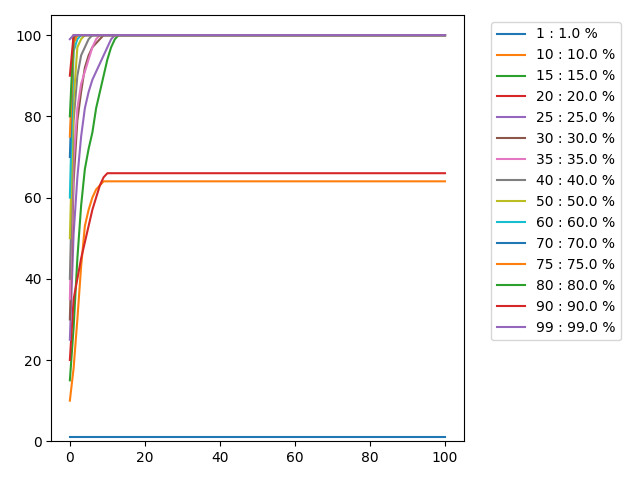
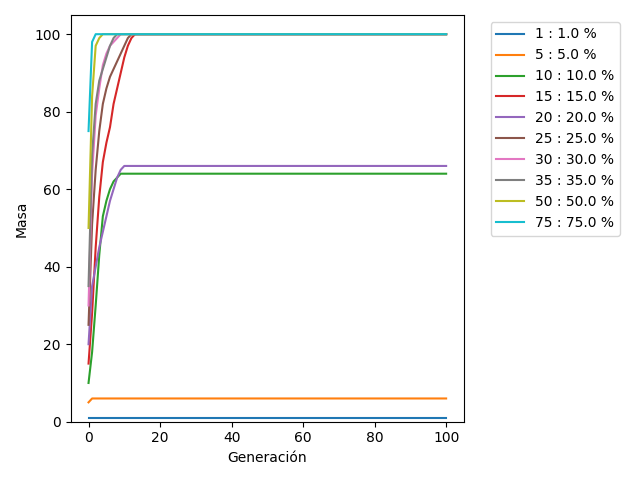
different percentage distributions, generation stabilization graph

diff --git a/TP_2/docs/Sections/Resultados.tex b/TP_2/docs/Sections/Resultados.tex
@@ -16,12 +16,21 @@
     \end{figure}
 }
 
-\newcommand{\obsgraph}[1]{
+\newcommand{\obsfinalgraph}[1]{
     \begin{figure}[H]
         \centering
-        \includegraphics[width=0.65\textwidth]{Images/#1/#1_obs}
-        \caption{Gráfico de los observables en función de los porcentajes}
-        \label{fig:#1obs}
+        \includegraphics[width=0.65\textwidth]{Images/#1/#1_obs_final}
+        \caption{Gráfico de la masa final en función de los porcentajes}
+        \label{fig:#1obsfinal}
+    \end{figure}
+}
+
+\newcommand{\obsstablegraph}[1]{
+    \begin{figure}[H]
+        \centering
+        \includegraphics[width=0.65\textwidth]{Images/#1/#1_obs_stable}
+        \caption{Gráfico de la generación de estabilización en función de los porcentajes}
+        \label{fig:#1obsstable}
     \end{figure}
 }
 
@@ -32,27 +41,35 @@
 \label{subsec:results2d}
 \subsubsection{El juego de la vida de Conway (Von Neumann)}
 \massgraph{gol2Dv2}
-Se puede observar en la Fig. \ref{fig:gol2Dv2mass} que la masa tiene una tendencia decreciente y se estabiliza en un valor constante, con casos donde dicho valor no es $0$.
+Se puede observar en la Fig. \ref{fig:gol2Dv2mass} que la masa tiene una tendencia decreciente y se estabiliza en un valor constante, existiendo algunos casos donde dicho valor no es $0$.
 \radiusgraph{gol2Dv2}
 Se puede observar en la Fig. \ref{fig:gol2Dv2radius} que el radio exhibe tres comportamientos: mantenerse constante, decrecer hasta anularse o hasta un valor constante no nulo.
-\obsgraph{gol2Dv2}
-Se puede observar en la Fig. \ref{fig:gol2Dv2obs} que la masa final de cada simulación tiene una tendencia creciente, y se estabiliza en los porcentajes al rededor de 75. Sin embargo, el desvío también es muy grande.
+\obsfinalgraph{gol2Dv2}
+Se puede observar en la Fig. \ref{fig:gol2Dv2obsfinal} que la masa final de cada simulación tiene una tendencia creciente en función de los porcentajes. Parece alcanzar estabilidad al rededor del 80\%.
+Sin embargo, el desvío asociado con estos porcentajes también es muy grande.
+\obsstablegraph{gol2Dv2}
+Se puede observar en la Fig. \ref{fig:gol2Dv2obsstable} que la generación de estabilización tiene una tendencia creciente en función de los porcentajes hasta el 80\%, y luego disminuye.
+Sin embargo, estos últimos valores también tienen un desvío muy grande.
+
 
 \subsubsection{Vecinos impares (Moore)}
 \massgraph{odd2D}
-Se puede observar en la Fig. \ref{fig:odd2Dmass} que la masa tiene una tendencia creciente, pero con notables picos en los que decrece.
+Se puede observar en la Fig. \ref{fig:odd2Dmass} que si bien el cambio de la masa es algo caótico, parece haber una tendencia global creciente.
+Además se puede ver que hay cierta concordancia en las generaciones donde ocurren caídas en la masa. La más destacable es la que ocurren al rededor de la generación 30, donde todos los porcentajes exhibidos sufren una caída de la masa.
+
 \radiusgraph{odd2D}
 A pesar de lo irregular que es el crecimiento de la masa, en la Fig. \ref{fig:odd2Dradius} se ve que los radios en función de la generación crecen de manera constante y sin saltos.
-\obsgraph{odd2D}
-Por último, en la Fig. \ref{fig:odd2Dobs} se ve que la masa final de cada simulación va aumentando su valor en los primeros porcentajes, y luego se estabiliza llegando a los últimos.
+\obsfinalgraph{odd2D}
+Por último, en la Fig. \ref{fig:odd2Dobsfinal} se ve que la masa final de cada simulación va aumentando su valor en los primeros porcentajes, y luego se estabiliza llegando a los últimos.
 
 \subsubsection{Rectángulo Relleno}
 \massgraph{fill2D}
-Se puede observar en la Fig. \ref{fig:fill2Dmass} que la masa tiene una tendencia creciente, y luego de algunas iteraciones se estabiliza en un valor constante.
+Se puede observar en la Fig. \ref{fig:fill2Dmass} que la masa es creciente, lo cual se puede explicar con la regla que si la celda ya estaba viva antes, entonces sigue viva en la siguiente iteración.  y luego de algunas iteraciones se estabiliza en un valor constante.
 \radiusgraph{fill2D}
 Al igual que la masa, puede observar en la Fig. \ref{fig:fill2Dradius} que el radio también tiene una tendencia creciente, y luego de algunas iteraciones se estabiliza en un valor constante.
-\obsgraph{fill2D}
-Al igual que en las figuras anteriores Fig. \ref{fig:fill2Dmass} y Fig. \ref{fig:fill2Dradius}, en la Fig. \ref{fig:fill2Dobs} se puede observar que la masa de cada simulación tiene una tendencia creciente en los primeros porcentajes, y finalmente se estabiliza en un valor constante.
+\obsfinalgraph{fill2D}
+Al igual que en las figuras anteriores Fig. \ref{fig:fill2Dmass} y Fig. \ref{fig:fill2Dradius}, en la Fig. \ref{fig:fill2Dobsfinal} se puede observar que la masa de cada simulación tiene una tendencia creciente en los primeros porcentajes, y finalmente se estabiliza en un valor constante.
+\obsstablegraph{fill2D}
 
 \subsection{Autómatas celulares de tres dimensiones}
 \label{subsec:results3d}
@@ -64,7 +81,7 @@ En la Fig. \ref{fig:fill2Dmass} queda en evidencia el crecimiento explosivo que 
 \radiusgraph{gol3D}
 ???
 
-\obsgraph{gol3D}
+\obsfinalgraph{gol3D}
 Se puede observar que el valor final aumenta hasta alcanzar lo que parecería un máximo local en 37.5\%, y luego disminuye.
 Es interesante notar como en los primeros y en los últimos valores, el desvío estandar aumenta, mientras que acercandose al máximo disminuye.
 
@@ -79,10 +96,11 @@ En la Fig. \ref{fig:decay3Dradius}, se puede observar que el radio tiene un comp
 Los primeros porcentajes tienen una tendencia decreciente.
 Aquellas simulaciones que cuentan con un porcentaje entre el 25\% y el 75\% del núcleo tienen una tendencia creciente.
 Por último, el que ocupa el 90\% del núcleo tiene una tendencia creciente que luego se estabiliza.
-\obsgraph{decay3D}
-En la Fig. \ref{fig:decay3Dobs} se puede observar que la masa final de cada simulación tiene una tendencia creciente en los primeros porcentajes, se estabiliza momentáneamente, y luego comienza a decrecer.
+\obsfinalgraph{decay3D}
+En la Fig. \ref{fig:decay3Dobsfinal} se puede observar que la masa final de cada simulación tiene una tendencia creciente en los primeros porcentajes, se estabiliza momentáneamente, y luego comienza a decrecer.
 
 \subsubsection{Umbral (Von Neumann)}
 \massgraph{decay3Dv2}
 \radiusgraph{decay3Dv2}
-\obsgraph{decay3Dv2}
+\obsfinalgraph{decay3Dv2}
+\obsstablegraph{decay3Dv2}

diff --git a/TP_2/src/plots.py b/TP_2/src/plots.py
@@ -35,7 +35,7 @@ def plot_animation_2d(path, q):
         fig, ax = plt.subplots()
         for j, state in enumerate(r):
             ax.clear()
-            state = state.reshape((length, length))
+            state = state.reshape((length, length, length))[:,32,:]
             ax.imshow(state, cmap='binary')
             start = (length//2-core//2)-0.5
             end = (length//2+core//2)-0.5
@@ -98,7 +98,7 @@ def radius(state, length):
 
 
 BASE_PATH = './output'
-def analyze_rule(rulename, obs_function):
+def analyze_rule(rulename, obs_function, obs_name):
     dim = 2 if '2D' in rulename else 3
     path = f"{BASE_PATH}/{rulename}"
     quantities = [int(f.replace(".txt","")) for f in os.listdir(path) if f.endswith('.txt')]
@@ -127,11 +127,15 @@ def analyze_rule(rulename, obs_function):
 
     mass_ax.set_ylim(bottom=0)
     mass_ax.legend(bbox_to_anchor=(1.05, 1.0), loc='upper left')
+    mass_ax.set_xlabel("Generación")
+    mass_ax.set_ylabel("Masa")
     mass_fig.tight_layout()
     mass_fig.savefig(f"{path}/{rulename}_mass.png")
 
     radius_ax.set_ylim(bottom=0)
     radius_ax.legend(bbox_to_anchor=(1.05, 1.0), loc='upper left')
+    radius_ax.set_xlabel("Generación")
+    radius_ax.set_ylabel("Radio")
     radius_fig.tight_layout()
     radius_fig.savefig(f"{path}/{rulename}_radius.png")
 
@@ -141,12 +145,13 @@ def analyze_rule(rulename, obs_function):
     fig, ax = plt.subplots()
     ax.errorbar(quantities, masses_avg, masses_std, fmt='o', linewidth=2, capsize=6)
 
-
     ax.set_xticks(quantities)
     ax.set_xticklabels([f"{100 * q / (core ** dim)}" for q in quantities], rotation=45, ha='right')
     # ax.set_xticks([100 * q / (core ** dim) for q in quantities])
-    # ax.set_xlabel("Porcentaje (%)")
-    plt.savefig(f"{path}/{rulename}_obs.png")
+    ax.set_xlabel("Porcentaje (%)")
+    ax.set_ylabel(obs_name[0])
+    fig.tight_layout()
+    plt.savefig(f"{path}/{rulename}_obs_{obs_name[1]}.png")
 
 
 if __name__ == '__main__':
@@ -154,24 +159,30 @@ if __name__ == '__main__':
     print(fnames)
     # ['decay3D', 'even2D', 'gol2D', 'fill2D', 'odd2D', 'gol3D', 'expansion3D']
 
-    # analyze_rule("fill2D", np.max)
-    # analyze_rule("gol2D", lambda x: x[-1])
-    # analyze_rule("gol2Dv2", lambda x: x[-1])
-    # analyze_rule("seeds2D", lambda x: x[-1])
-    # analyze_rule("odd2D", lambda x: x[-1])
-    # analyze_rule("even2D", lambda x: x[-1])
+    TEXT_LAST_MASS = ("Masa final", "final")
+    TEXT_GENERATION_TO_STABILIZE = ("Generación en la que se estabiliza", "stable")
 
-    # analyze_rule("decay3D", lambda x: x[-1])
-    # analyze_rule("decay3Dv2", lambda x: x[-1])
-    # analyze_rule("gol3D", lambda x: x[-1])
+    analyze_rule("fill2D",lambda x: x[-1], TEXT_LAST_MASS)
+    analyze_rule("fill2D",lambda xs: next(i for i, x in enumerate(xs) if x == xs[-1]), TEXT_GENERATION_TO_STABILIZE)
+    # analyze_rule("gol2D", lambda x: x[-1], TEXT_LAST_MASS)
+    analyze_rule("gol2Dv2", lambda x: x[-1], TEXT_LAST_MASS)
+    analyze_rule("gol2Dv2", lambda xs: next(i for i, x in enumerate(xs) if x == xs[-1]), TEXT_GENERATION_TO_STABILIZE)
+    # analyze_rule("seeds2D", lambda x: x[-1], TEXT_LAST_MASS)
+    analyze_rule("odd2D", lambda x: x[-1], TEXT_LAST_MASS)
+    # analyze_rule("even2D", lambda x: x[-1], TEXT_LAST_MASS)
+
+    analyze_rule("gol3D", lambda x: x[-1], TEXT_LAST_MASS)
+    analyze_rule("decay3D", lambda x: x[-1], TEXT_LAST_MASS)
+    analyze_rule("decay3Dv2", lambda xs: xs[-1], TEXT_LAST_MASS)
+    analyze_rule("decay3Dv2", lambda xs: next(i for i, x in enumerate(xs) if x == xs[-1]), TEXT_GENERATION_TO_STABILIZE)
 
 
 
-    plot_animation_3d(f"{BASE_PATH}/decay3D", 4000)
-    plot_animation_3d(f"{BASE_PATH}/decay3D", 6000)
-    plot_animation_3d(f"{BASE_PATH}/decay3D", 7200)
-    plot_animation_3d(f"{BASE_PATH}/decay3Dv2", 500)
-    plot_animation_3d(f"{BASE_PATH}/decay3Dv2", 4000)
-    plot_animation_3d(f"{BASE_PATH}/decay3Dv2", 7200)
+    # plot_animation_3d(f"{BASE_PATH}/decay3D", 4000)
+    # plot_animation_3d(f"{BASE_PATH}/decay3D", 6000)
+    # plot_animation_2d(f"{BASE_PATH}/decay3Dv2", 7200)
+    # plot_animation_3d(f"{BASE_PATH}/decay3Dv2", 500)
+    # plot_animation_3d(f"{BASE_PATH}/decay3Dv2", 4000)
+    # plot_animation_3d(f"{BASE_PATH}/decay3Dv2", 7200)
     # plot_animation_2d(f"{BASE_PATH}/fill2D", 25)
     # plot_animation_2d(f"{BASE_PATH}/fill2D", 10)

diff --git a/TP_2/src/Main.java b/TP_2/src/Main.java
@@ -7,21 +7,38 @@ public class Main {
     public static String INPUT_PATH = "input/";
     public static String BASE_PATH = "output/";
     public static void main(String[] args) {
-        List<Integer> initialStates2D = List.of(1,10,15,20,25,30,35,40,50,60,70,75,80,90,99);
-        for (AutomatonRules.Rules2D rule : AutomatonRules.Rules2D.values()) {
-            for (Integer initialState : initialStates2D) {
-                runAutomata2D(initialState.toString(), rule.rule, rule.name);
-                System.out.println("Finished " + rule.name + " with initial state " + initialState);
-            }
+
+        for (Integer initialState : List.of(10,20,30,40,50,60,70,80,90,99)) {
+            AutomatonRules.Rules2D rule = AutomatonRules.Rules2D.GOLV2;
+            runAutomata2D(initialState.toString(), rule.rule, rule.name);
         }
 
-        List<Integer> initialStates3D = List.of(10, 100, 500, 1000, 2000,3000,4000, 5000,6000,7200);
-        for (AutomatonRules.Rules3D rule : AutomatonRules.Rules3D.values()) {
-            for (Integer initialState : initialStates3D) {
-                runAutomata3D(initialState.toString(), rule.rule, rule.name);
-                System.out.println("Finished " + rule.name + " with initial state " + initialState);
-            }
+        for (Integer initialState : List.of(1,5,10,15,20,25,30,35,50,75)) {
+            AutomatonRules.Rules2D rule = AutomatonRules.Rules2D.FILL;
+            runAutomata2D(initialState.toString(), rule.rule, rule.name);
         }
+
+        for (Integer initialState : List.of(1,10,20,30,40,50,60,70,80,90)) {
+            AutomatonRules.Rules2D rule = AutomatonRules.Rules2D.ODD;
+            runAutomata2D(initialState.toString(), rule.rule, rule.name);
+        }
+
+
+        for (Integer initialState : List.of(100, 500, 1000, 2000,3000,4000, 5000,6000,7200)) {
+            AutomatonRules.Rules3D rule = AutomatonRules.Rules3D.GOL;
+            runAutomata3D(initialState.toString(), rule.rule, rule.name);
+        }
+
+        for (Integer initialState : List.of(100, 1000, 2000,3000,4000, 5000,6000, 6500,7000,7500)) {
+            AutomatonRules.Rules3D rule = AutomatonRules.Rules3D.DECAY;
+            runAutomata3D(initialState.toString(), rule.rule, rule.name);
+        }
+
+        for (Integer initialState : List.of(100, 500, 1000, 2000, 3000, 4000, 5000,6000, 7000,7500)) {
+            AutomatonRules.Rules3D rule = AutomatonRules.Rules3D.DECAYV2;
+            runAutomata3D(initialState.toString(), rule.rule, rule.name);
+        }
+
     }
 
     public static void runAutomata2D(String initName, CelularAutomata2D.Rule2D rule, String name){
@@ -41,6 +58,7 @@ public class Main {
                 FileController.appendToFile2D(filename, ca);
             }
         }
+        System.out.println("Finished " + name + " with initial state " + initName);
     }
 
     public static void runAutomata3D(String initName, CelularAutomata3D.Rule3D rule, String name){
@@ -60,5 +78,6 @@ public class Main {
                 FileController.appendToFile3D(filename, ca);
             }
         }
+        System.out.println("Finished " + name + " with initial state " + initName);
     }
 }

diff --git a/TP_2/docs/Sections/Modelo.tex b/TP_2/docs/Sections/Modelo.tex
@@ -1,5 +1,6 @@
 \section{Modelo}
 \label{sec:modelo}
+Se plantearon 6 reglas distintas, 3 de dos dimensiones y 3 de tres  dimensiones.
 
 \subsection{Autómatas celulares de dos dimensiones}
 \label{subsec:2d}
@@ -38,14 +39,14 @@ Reglas:
     \item Una célula viva sigue viva en la siguiente generación
     \item Una célula muerta se transforma en viva si existe un par de vecinos (vecindad de moore de distancia 1) vivos que no comparten ni fila ni columna entre sí.
 \end{itemize}
-Entonces, en la Fig. \ref{fig:fill} se puede ver que los casos donde una celda muerta se mantiene muerta son lados rectos:
+Entonces, en la Fig. \ref{fig:fill} se puede ver que los casos donde una celda muerta se mantiene muerta son los que todos sus vecinos vivos compartan exclusivamente o la columna o la fila:
 \begin{figure}[H]
     \centering
     \includegraphics[width=0.5\textwidth]{Images/fill_example_1a}
-    \caption{Casos donde una celda muerta se mantiene muerta}
+    \caption{Casos donde una celda muerta se mantiene muerta (sin contar simetrías rotacionales)}
     \label{fig:fill}
 \end{figure}
-Los rectángulos son las únicas superficies estables, ya que son las únicas superficies cuyo borde es exclusivamente de lados rectos, y el perímetro de celdas muertas que lo rodea cae en los casos mencionados.
+Los rectángulos son las únicas figuras (conjunto conexo de celdas vivas) estables, ya que son las únicas figuras tales que todo el perímetro de celdas muertas que lo rodea, cae en los casos mencionados.
 Entonces, el sistema va a converger a un conjunto de rectángulos que contienen a las células vivas iniciales y estén suficientemente cerca entre sí.
 
 \subsection{Autómatas celulares de tres dimensiones}
@@ -63,7 +64,7 @@ Reglas:
 \end{itemize}
 
 \subsubsection{Umbral (Von Neumann)}
-Similar al anterior, pero con ligeras modificaciones en las reglas para considerar la vecindad de Von Neumann.
+Similar al anterior, pero disminuyendo el umbral a 2, ya que la vencidad Von Neumann comprede 6 celdas, en contraste a la de Moore que tiene 26.
 \begin{itemize}
     \item Una celda viva muere en la siguiente generación.
     \item Si una celda muerta tiene 2 o más vecinos vivos, se convierte en una celda viva en la siguiente generación.

diff --git a/TP_2/docs/Sections/Simulaciones.tex b/TP_2/docs/Sections/Simulaciones.tex
@@ -27,9 +27,6 @@ En cada gráfico se puede ver el cambio de la masa para las 10 simulaciones.
 De manera análoga a la masa, se realizaron gráficos analizando el cambio del radio, que se definió como la mayor distancia (norma 1) entre una célula y el centro de la grilla.
 
 \subsection{Observables}
-Para todas las reglas tanto 2D como 3D, se eligió tomar como observable la masa final del sistema, es decir la que se alcanza en la iteración numero 100, o cuando se toca un borde.
-Así, se graficó el valor del observable en función de las iteraciones.
-
 Debido a que las condiciones iniciales se tomaron de manera aleatoria y los resultados finales dependian de las mismas, los gráficos muestran los valores promedio del observable en cada porcentaje (para las 10 condiciones iniciales de cada uno).
 
 El promedio se calculó de la siguiente manera:
@@ -47,3 +44,9 @@ El desvio estandar se obtuvo de la siguiente manera:
     \sigma = \sqrt{\frac{1}{9} \sum_{i=1}^{10} (m_i - \bar{m})^2}
 \end{equation}
 donde $\bar{m}$ es el promedio previamente definido
+
+\subsubsection{Masa final}
+Para todas las reglas tanto 2D como 3D, se eligió tomar como observable la masa final del sistema, es decir la que se alcanza en la iteración numero 100, o cuando se toca un borde.
+Así, se graficó el valor del observable en función de las iteraciones.
+\subsubsection{Generación de estabilización}
+Además, para las reglas donde se observó que la masa en un ciclo estable, se eligió tomar como otro observable a la generación en la que alcanza dicho ciclo.

diff --git a/TP_2/src/analysis.py b/TP_2/src/analysis.py
@@ -1,6 +1,6 @@
 import numpy as np
 import matplotlib.pyplot as plt
-
+import matplotlib as mpl
 def poly_analysis(mass_list, filename, degree):
     #fit cubic regression model
     xs = list(range(len(mass_list)))
@@ -31,7 +31,7 @@ if __name__ == '__main__':
     set_ticks(axs[0,0])
     axs[0,1].imshow(np.array([[0,1,0],[0,0,0],[0,0,0]]), cmap='binary')
     set_ticks(axs[0,1])
-    axs[0,2].imshow(np.array([[0,0,1],[0,0,0],[0,0,0]]), cmap='binary')
+    axs[0,2].imshow(np.array([[1,0,1],[0,0,0],[0,0,0]]), cmap='binary')
     set_ticks(axs[0,2])
     axs[1,0].imshow(np.array([[1,1,0],[0,0,0],[0,0,0]]), cmap='binary')
     set_ticks(axs[1,0])
@@ -41,3 +41,13 @@ if __name__ == '__main__':
     set_ticks(axs[1,2])
 
     fig.savefig('../docs/Images/fill_example_1a.png')
+    cmap = mpl.colors.LinearSegmentedColormap.from_list("", ['white','grey','green'])
+    fig, axs = plt.subplots(2,3)
+    axs[0,0].imshow(np.array([[2,1,1],[1,0,1],[1,1,2]]), cmap=cmap)
+    set_ticks(axs[0,0])
+    axs[0,1].imshow(np.array([[1,2,1],[2,0,1],[1,1,1]]), cmap=cmap)
+    set_ticks(axs[0,1])
+    axs[0,2].imshow(np.array([[2,1,1],[1,0,2],[1,1,1]]), cmap=cmap)
+    set_ticks(axs[0,2])
+
+    fig.savefig('../docs/Images/fill_example_1b.png')

diff --git a/TP_2/src/init2d.py b/TP_2/src/init2d.py
@@ -6,7 +6,7 @@ import matplotlib.pyplot as plt
 if __name__ == '__main__':
     total_l = 100
     core_l = 10
-    for n in [60,70,80,90]:
+    for n in [5]:
         fig, axs = plt.subplots(2, 5, figsize=(20, 10))
         filename = f'input/init2d_{n}'
         with open(f"{filename}.txt", 'w') as f:
